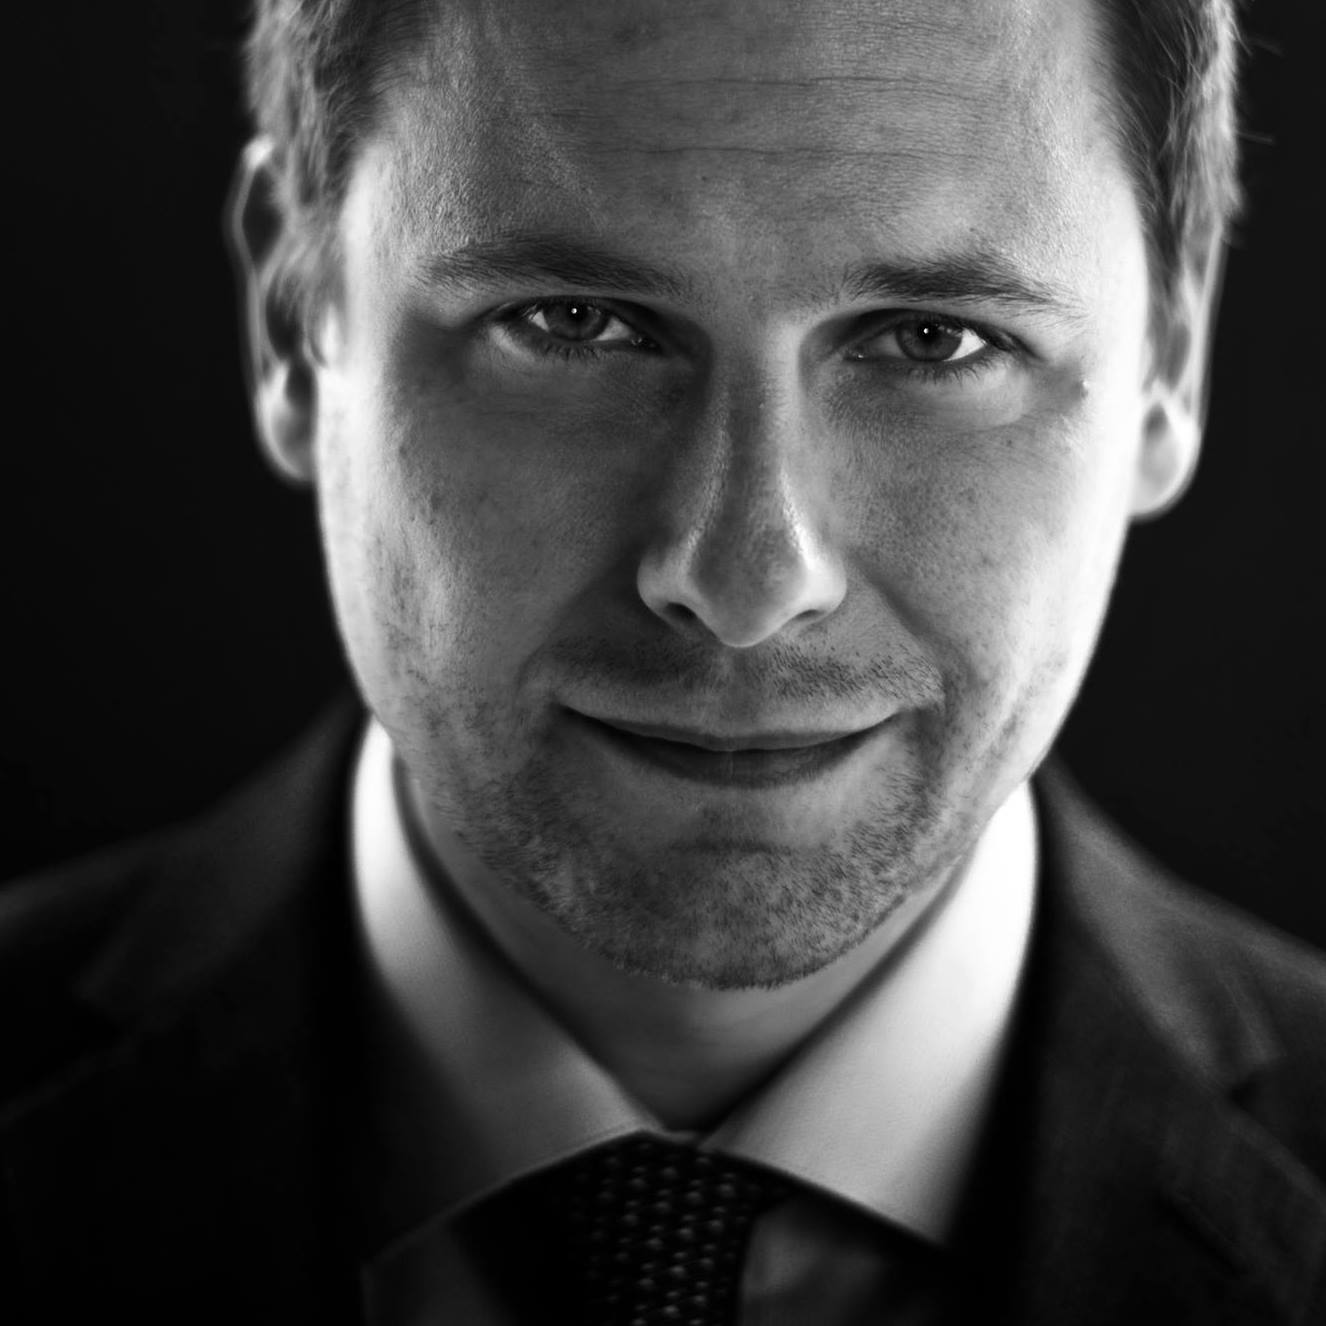
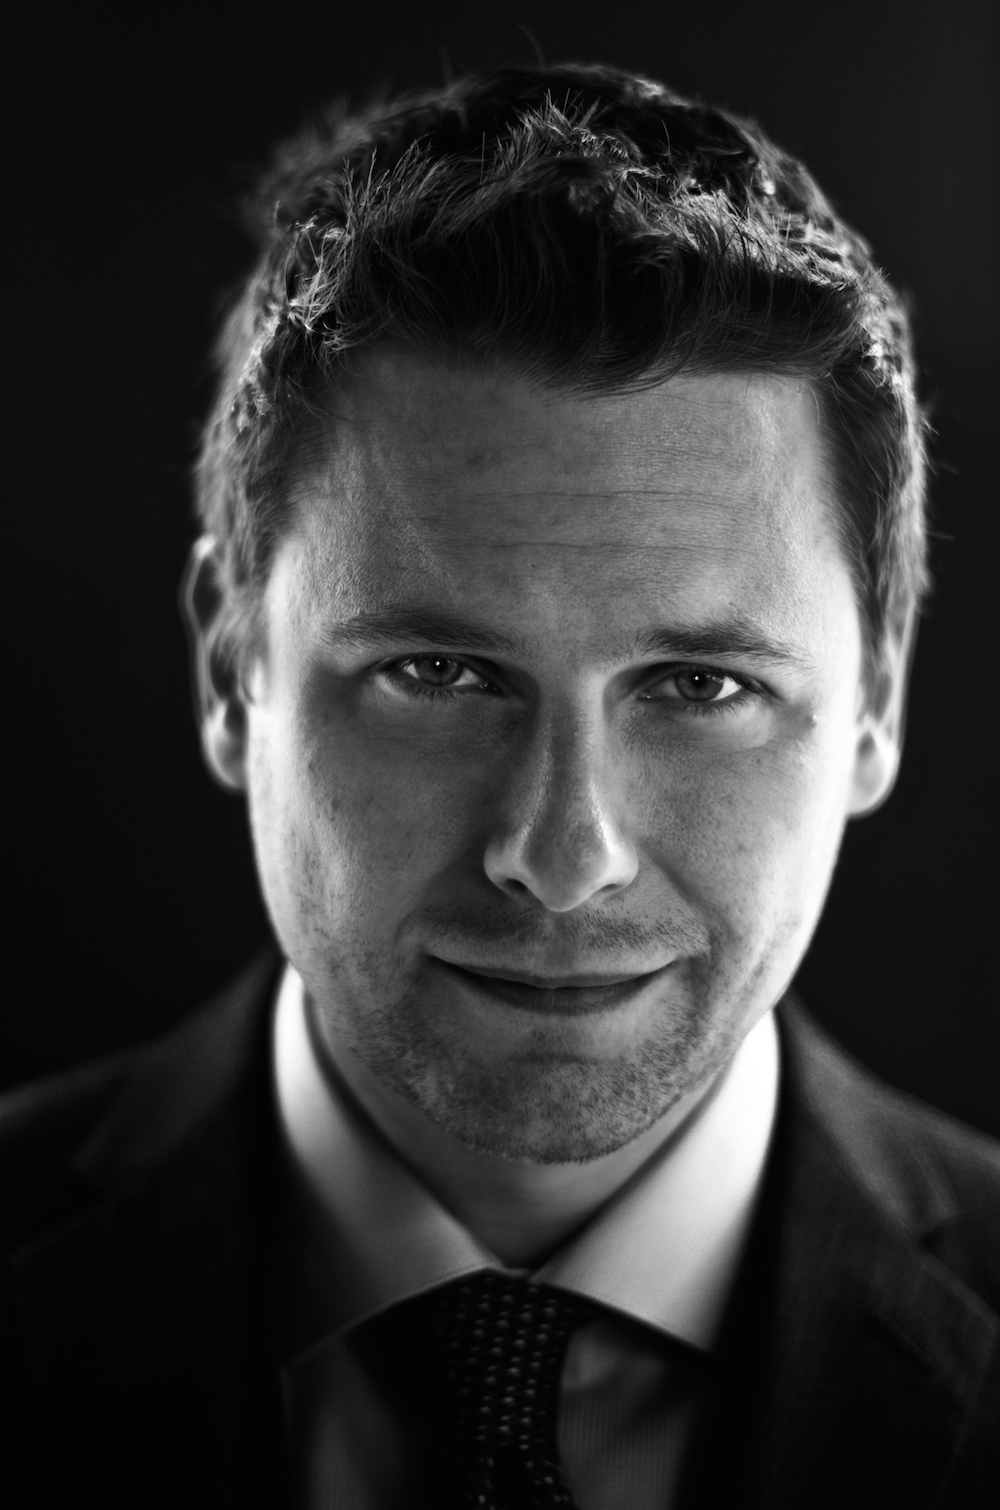
added page for Johann

diff --git a/people/j_laconte/index.html b/people/j_laconte/index.html
@@ -2,16 +2,14 @@
 <html>
   <head>
     <meta charset="utf-8">
-    <title>How to Add Bibliography to a Post • Northern Robotics Laboratory</title>
-    <meta name="description" content="This is a small tutorial on how to use the plugin jekyll-shcolar on this website.
-
+    <title>J_laconte • Northern Robotics Laboratory</title>
+    <meta name="description" content="
 ">
-    <meta name="keywords" content="howto, jekyll, website, bibtex">
+    <meta name="keywords" content="">
     
     	<!-- Twitter Cards -->
-	<meta name="twitter:title" content="How to Add Bibliography to a Post">
-	<meta name="twitter:description" content="This is a small tutorial on how to use the plugin jekyll-shcolar on this website.
-
+	<meta name="twitter:title" content="J_laconte">
+	<meta name="twitter:description" content="
 ">
 	
 	
@@ -22,16 +20,15 @@
 	<!-- Open Graph -->
 	<meta property="og:locale" content="en">
 	<meta property="og:type" content="article">
-	<meta property="og:title" content="How to Add Bibliography to a Post">
-	<meta property="og:description" content="This is a small tutorial on how to use the plugin jekyll-shcolar on this website.
-
+	<meta property="og:title" content="J_laconte">
+	<meta property="og:description" content="
 ">
 	
-	<meta property="og:url" content="https://norlab.ulaval.ca/research/how-to-add-bibliography/">
+	<meta property="og:url" content="https://norlab.ulaval.ca/people/j_laconte/">
 	<meta property="og:site_name" content="Northern Robotics Laboratory">
 
 
-    <link rel="canonical" href="https://norlab.ulaval.ca/research/how-to-add-bibliography/">
+    <link rel="canonical" href="https://norlab.ulaval.ca/people/j_laconte/">
 
     <link href="https://norlab.ulaval.ca/atom.xml" type="application/atom+xml" rel="alternate" title="Northern Robotics Laboratory Atom Feed">
     <link href="https://norlab.ulaval.ca/sitemap.xml" type="application/xml" rel="sitemap" title="Sitemap">
@@ -158,82 +155,127 @@
 
 
     <div id="page-wrapper">
-      <div id="main" role="main">
+      
+  
+
+<div id="main" role="main">
 	<article class="wrap" itemscope itemtype="http://schema.org/Article">
 		
 		
-  <nav class="breadcrumbs">
-    <span itemscope itemtype="http://data-vocabulary.org/Breadcrumb">
-      <a href="https://norlab.ulaval.ca" itemprop="url">
-        <span itemprop="title">Home</span>
-      </a> › 
-    <span itemscope itemtype="http://data-vocabulary.org/Breadcrumb">
-      <a href="https://norlab.ulaval.ca/research/" itemprop="url">
-        <span itemprop="title">Research</span>
-      </a>
-    </span>
-  </nav><!-- /.breadcrumbs -->
 
 		<div class="page-title">
-			<h1>How to Add Bibliography to a Post
-			<p></p>
-			</h1>
+			<h1>Johann Laconte</h1>
 		</div>
-		<div class="inner-wrap">
-			<div id="content" class="page-content" itemprop="articleBody">
-				<p>This is a small tutorial on how to use the plugin <code class="highlighter-rouge">jekyll-shcolar</code> on this website.</p>
 
-<p>Use <code class="highlighter-rouge">{% cite Pomerleau2010a %}</code> in a text to cite a work like this <a href="#Pomerleau2010a">(Pomerleau &amp; Colas, 2010)</a>.</p>
+			<div class="author-stat">
+				<img src="https://norlab.ulaval.ca/images/people/j_laconte.jpg" alt="Johann Laconte">
+				<p class="author-bio"></p>
+				
+					<!-- TODO: system message -->
+					<span style="font-style: italic;"> Started on 
+					<time datetime="2018-03-29">
+						March 29, 2018
+					</time>
+					</span>
+					<br>
+				
+				 <br><br>
+				
+					<b>Expertise:</b> Lidar modeling, ICP, Iterative Closest Point, registration, traversability <br><br>
+				
+				
+					<b>Follow me:</b><br>
+					
+					
+					
+					<span style="display:inline-block; width: 10px;"></span>
+					<img src="https://www.google.com/s2/favicons?domain=https://scholar.google.fr" alt="Google Scholar">
+					
+						<a href=https://scholar.google.fr/citations?user=cVFALvkAAAAJ target="_blank">Google Scholar</a>
+						<br>
+					
+					
+					
+					<span style="display:inline-block; width: 10px;"></span>
+					<img src="https://www.google.com/s2/favicons?domain=https://www.researchgate.net" alt="Research Gate">
+					
+						<a href=https://www.researchgate.net/profile/Johann_Laconte target="_blank">Research Gate</a>
+						<br>
+					
+					
+					
+					<span style="display:inline-block; width: 10px;"></span>
+					<img src="https://www.google.com/s2/favicons?domain=https://www.linkedin.com" alt="Linkedin">
+					
+						<a href=https://www.linkedin.com/in/jlaconte/ target="_blank">Linkedin</a>
+						<br>
+					
+					
+					
+					<span style="display:inline-block; width: 10px;"></span>
+					<img src="https://www.google.com/s2/favicons?domain=https://orcid.org" alt="ORCID">
+					
+						<a href=https://orcid.org/0000-0002-2274-9835 target="_blank">ORCID</a>
+						<br>
+					
+					
+					
+					<span style="display:inline-block; width: 10px;"></span>
+					<img src="https://www.google.com/s2/favicons?domain=https://www.mendeley.com" alt="Mendeley">
+					
+						<a href=https://www.mendeley.com/profiles/johann-laconte/ target="_blank">Mendeley</a>
+						<br>
+					
+				
 
-<p>Print only the cited bibliography:</p>
+			</div>
+			<div id="content" class="author-col" itemprop="articleBody">
+				
+				
+<h1 id="short-biography">Short Biography</h1>
 
-<div class="highlighter-rouge"><div class="highlight"><pre class="highlight"><code>{% bibliography --cited %}
-</code></pre></div></div>
-<p>Result:</p>
+<p>Johann Laconte is currently a Ph.D student in robotics at Institut Pascali, France. 
+He got an Engineering degree in computer sciences and modelisation from ISIMA (Institut Supérieur d’Informatique, de Modélisation et de leurs Applications) as well as a Master’s degree in Robotics from Université d’Auvergne, France, in 2018.
+He did an internship at Thales, during which he participated in the development of LIDAR SLAM algorithm.
+He also did an research internship at Norlab, working on the characterization of LIDAR’s bias.
+His current works are about traversability and risk assesments in dynamics environments.</p>
 
-<ol class="bibliography" reversed="reversed"><li><span id="Pomerleau2010a">Pomerleau, F., &amp; Colas, F. (2010). Evaluation of stereo reconstruction for 3D mapping. 4th International Conference on Cognitive Systems (CogSys).</span></li></ol>
+<h1 id="education">Education</h1>
 
-<p>Print a bibliography filtered by author name:</p>
+<ul>
+  <li>M.Sc. in Robotics and Artificial Perception - University of Auvergne (UCA), 2018</li>
+  <li>Engineering degree in computer Sciences and Modelisation - Institut Supérieur d’Informatique, de Modélisation et de leurs Applications (ISIMA), 2018</li>
+</ul>
 
-<div class="highlighter-rouge"><div class="highlight"><pre class="highlight"><code>{% bibliography -q @*[author ^= Paton] %}
-</code></pre></div></div>
-<p>Result:</p>
+<h1 id="publications">Publications</h1>
 
-<ol class="bibliography" reversed="reversed"><li><span id="Pomerleau2017b">Paton, M., Pomerleau, F., MacTavish, K., Ostafew, C. J., &amp; Barfoot, T. D. (2017). Expanding the Limits of Vision-based Localization for Long-term Route-following Autonomy. <i>Journal of Field Robotics</i>, <i>34</i>(1), 98–122.</span></li>
-<li><span id="Pomerleau2016a">Paton, M., Pomerleau, F., &amp; Barfoot, T. D. (2016). In the dead of winter: Challenging vision-based path following in extreme conditions. <i>Springer Tracts in Advanced Robotics</i>, <i>113</i>, 563–576.</span></li>
-<li><span id="Pomerleau2015b">Paton, M., Pomerleau, F., &amp; Barfoot, T. D. (2015). Eyes in the Back of Your Head: Robust Visual Teach &amp; Repeat Using Multiple Stereo Cameras. In <i>Proceedings of the 12th Conference on Computer and Robot Vision (CRV)</i> (pp. 46–53).</span></li></ol>
+<h2 class="bibliography">Conference Articles</h2>
+<ol class="bibliography" reversed="reversed"><li><span id="Labussiere2019">Labussière, M., Laconte, J., &amp; Pomerleau, F. (2019). Geometry Preserving Sampling Method based on Spectral Decomposition for 3D Registration. In <i>preprint, submitted to ICRA 2019</i>.</span></li>
+<li><span id="Laconte2019">Laconte, J., Deschênes, S.-P., Labussière, M., &amp; Pomerleau, F. (2019). Lidar Measurement Bias Estimation via Return Waveform Modelling in a Context of 3D Mapping. In <i>preprint, submitted to ICRA 2019</i>.</span></li></ol>
+
 
 
 				<hr />
+				
 				<footer class="page-footer">
-					
-
-<div class="author-image">
-	<img src="https://norlab.ulaval.ca/images/people/f_pomerleau_avatar.jpg" alt="François Pomerleau">
-</div><!-- ./author-image -->
-<div class="author-content">
-	<h3 class="author-name" >Written by <a href="/people/f_pomerleau" itemprop="author">François Pomerleau</a></h3>
-	<p class="author-bio"></p>
-</div><!-- ./author-content -->
-
 					<div class="inline-btn">
-	<a class="btn-social twitter" href="https://twitter.com/intent/tweet?text=How%20to%20Add%20Bibliography%20to%20a%20Post&amp;url=https://norlab.ulaval.ca/research/how-to-add-bibliography/&amp;via=" target="_blank"><i class="fa fa-twitter" aria-hidden="true"></i> Share on Twitter</a>
-	<a class="btn-social facebook" href="https://www.facebook.com/sharer/sharer.php?u=https://norlab.ulaval.ca/research/how-to-add-bibliography/" target="_blank"><i class="fa fa-facebook" aria-hidden="true"></i> Share on Facebook</a>
-	<a class="btn-social google-plus"  href="https://plus.google.com/share?url=https://norlab.ulaval.ca/research/how-to-add-bibliography/" target="_blank"><i class="fa fa-google-plus" aria-hidden="true"></i> Share on Google+</a>
+	<a class="btn-social twitter" href="https://twitter.com/intent/tweet?text=J_laconte&amp;url=https://norlab.ulaval.ca/people/j_laconte/&amp;via=" target="_blank"><i class="fa fa-twitter" aria-hidden="true"></i> Share on Twitter</a>
+	<a class="btn-social facebook" href="https://www.facebook.com/sharer/sharer.php?u=https://norlab.ulaval.ca/people/j_laconte/" target="_blank"><i class="fa fa-facebook" aria-hidden="true"></i> Share on Facebook</a>
+	<a class="btn-social google-plus"  href="https://plus.google.com/share?url=https://norlab.ulaval.ca/people/j_laconte/" target="_blank"><i class="fa fa-google-plus" aria-hidden="true"></i> Share on Google+</a>
 </div><!-- /.share-this -->
 
 					<div class="page-meta">
-	<p>Updated <time datetime="2018-01-01T00:00:00Z" itemprop="datePublished">January 01, 2018</time></p>
+	<p>Updated <time datetime="2018-11-22T00:00:00Z" itemprop="datePublished">November 22, 2018</time></p>
 </div><!-- /.page-meta -->
 				</footer><!-- /.footer -->
 				<aside>
 					
 				</aside>
 			</div><!-- /.content -->
-		</div><!-- /.inner-wrap -->
-		
 	</article><!-- ./wrap -->
 </div><!-- /#main -->
+
+
 
       <footer role="contentinfo" id="site-footer">
 	<nav role="navigation" class="menu bottom-menu">

diff --git a/equipe/index.html b/equipe/index.html
@@ -179,7 +179,7 @@
 		<div class="grid">
     <div class="author-image">
       
-      <img src="https://norlab.ulaval.ca/images/people/f_pomerleau.jpg" alt="avatar" itemprop="image" />
+      <img src="https://norlab.ulaval.ca/images/people/f_pomerleau_avatar.jpg" alt="avatar" itemprop="image" />
       
     </div><!-- ./author-image -->
 
@@ -416,11 +416,15 @@
 
 <div class="tile">
 	
+		
+			<a href="https://norlab.ulaval.ca/people/j_laconte" title="Johann Laconte">
+		
+	
 
 		<div class="grid">
     <div class="author-image">
       
-      <img src="https://norlab.ulaval.ca/images/people/bio-photo.jpg" alt="avatar" itemprop="image" />
+      <img src="https://norlab.ulaval.ca/images/people/j_laconte_avatar.jpg" alt="avatar" itemprop="image" />
       
     </div><!-- ./author-image -->
 
@@ -448,6 +452,8 @@
 		
 		</div>
 	
+	
+  </a>
 	
 </div><!-- /.tile -->
 

diff --git a/people/index.html b/people/index.html
@@ -179,7 +179,7 @@
 		<div class="grid">
     <div class="author-image">
       
-      <img src="https://norlab.ulaval.ca/images/people/f_pomerleau.jpg" alt="avatar" itemprop="image" />
+      <img src="https://norlab.ulaval.ca/images/people/f_pomerleau_avatar.jpg" alt="avatar" itemprop="image" />
       
     </div><!-- ./author-image -->
 
@@ -416,11 +416,15 @@
 
 <div class="tile">
 	
+		
+			<a href="https://norlab.ulaval.ca/people/j_laconte" title="Johann Laconte">
+		
+	
 
 		<div class="grid">
     <div class="author-image">
       
-      <img src="https://norlab.ulaval.ca/images/people/bio-photo.jpg" alt="avatar" itemprop="image" />
+      <img src="https://norlab.ulaval.ca/images/people/j_laconte_avatar.jpg" alt="avatar" itemprop="image" />
       
     </div><!-- ./author-image -->
 
@@ -448,6 +452,8 @@
 		
 		</div>
 	
+	
+  </a>
 	
 </div><!-- /.tile -->
 

diff --git a/error/traduction-manquante/index.html b/error/traduction-manquante/index.html
@@ -189,7 +189,7 @@ Si l’information manquante est importante pour vous, n’hésitez pas à nous 
 					
 
 <div class="author-image">
-	<img src="https://norlab.ulaval.ca/images/people/f_pomerleau.jpg" alt="François Pomerleau">
+	<img src="https://norlab.ulaval.ca/images/people/f_pomerleau_avatar.jpg" alt="François Pomerleau">
 </div><!-- ./author-image -->
 <div class="author-content">
 	<h3 class="author-name" >Écrit par <a href="/people/f_pomerleau_fr" itemprop="author">François Pomerleau</a></h3>

diff --git a/news/version-francaise/index.html b/news/version-francaise/index.html
@@ -193,7 +193,7 @@ N’hésitez pas à mentionner tout article dont la traduction est manquante.</p
 					
 
 <div class="author-image">
-	<img src="https://norlab.ulaval.ca/images/people/f_pomerleau.jpg" alt="François Pomerleau">
+	<img src="https://norlab.ulaval.ca/images/people/f_pomerleau_avatar.jpg" alt="François Pomerleau">
 </div><!-- ./author-image -->
 <div class="author-content">
 	<h3 class="author-name" >Écrit par <a href="/people/f_pomerleau_fr" itemprop="author">François Pomerleau</a></h3>

diff --git a/research/limnobotics_fr/index.html b/research/limnobotics_fr/index.html
@@ -241,7 +241,7 @@ Il est utilisé ici pour mettre en valeur des compétences de recherche et pour 
 					
 
 <div class="author-image">
-	<img src="https://norlab.ulaval.ca/images/people/f_pomerleau.jpg" alt="François Pomerleau">
+	<img src="https://norlab.ulaval.ca/images/people/f_pomerleau_avatar.jpg" alt="François Pomerleau">
 </div><!-- ./author-image -->
 <div class="author-content">
 	<h3 class="author-name" >Écrit par <a href="/people/f_pomerleau_fr" itemprop="author">François Pomerleau</a></h3>

diff --git a/error/missing-translation/index.html b/error/missing-translation/index.html
@@ -190,7 +190,7 @@ If the missing information is important to you, don’t hesitate to report to us
 					
 
 <div class="author-image">
-	<img src="https://norlab.ulaval.ca/images/people/f_pomerleau.jpg" alt="François Pomerleau">
+	<img src="https://norlab.ulaval.ca/images/people/f_pomerleau_avatar.jpg" alt="François Pomerleau">
 </div><!-- ./author-image -->
 <div class="author-content">
 	<h3 class="author-name" >Written by <a href="/people/f_pomerleau" itemprop="author">François Pomerleau</a></h3>

diff --git a/news/new-sensor-robosense/index.html b/news/new-sensor-robosense/index.html
@@ -205,7 +205,7 @@ This is the first unit delivered in Quebec and we are happy to use it for our pr
 					
 
 <div class="author-image">
-	<img src="https://norlab.ulaval.ca/images/people/f_pomerleau.jpg" alt="François Pomerleau">
+	<img src="https://norlab.ulaval.ca/images/people/f_pomerleau_avatar.jpg" alt="François Pomerleau">
 </div><!-- ./author-image -->
 <div class="author-content">
 	<h3 class="author-name" >Written by <a href="/people/f_pomerleau" itemprop="author">François Pomerleau</a></h3>

diff --git a/publications/learning-bias/index.html b/publications/learning-bias/index.html
@@ -245,7 +245,7 @@ We achieved around 10 % reduction in errors on all datasets from an already accu
 					
 
 <div class="author-image">
-	<img src="https://norlab.ulaval.ca/images/people/f_pomerleau.jpg" alt="François Pomerleau">
+	<img src="https://norlab.ulaval.ca/images/people/f_pomerleau_avatar.jpg" alt="François Pomerleau">
 </div><!-- ./author-image -->
 <div class="author-content">
 	<h3 class="author-name" >Written by <a href="/people/f_pomerleau" itemprop="author">François Pomerleau</a></h3>

diff --git a/publications/review-icp/index.html b/publications/review-icp/index.html
@@ -261,7 +261,7 @@ Ultimately, the objective of this review is to provide guidelines for the choice
 					
 
 <div class="author-image">
-	<img src="https://norlab.ulaval.ca/images/people/f_pomerleau.jpg" alt="François Pomerleau">
+	<img src="https://norlab.ulaval.ca/images/people/f_pomerleau_avatar.jpg" alt="François Pomerleau">
 </div><!-- ./author-image -->
 <div class="author-content">
 	<h3 class="author-name" >Written by <a href="/people/f_pomerleau" itemprop="author">François Pomerleau</a></h3>

diff --git a/research/how-to-comment-lauch-file/index.html b/research/how-to-comment-lauch-file/index.html
@@ -271,7 +271,7 @@ So much, that even the syntax highlight used for this web site will not render i
 					
 
 <div class="author-image">
-	<img src="https://norlab.ulaval.ca/images/people/f_pomerleau.jpg" alt="François Pomerleau">
+	<img src="https://norlab.ulaval.ca/images/people/f_pomerleau_avatar.jpg" alt="François Pomerleau">
 </div><!-- ./author-image -->
 <div class="author-content">
 	<h3 class="author-name" >Written by <a href="/people/f_pomerleau" itemprop="author">François Pomerleau</a></h3>

diff --git a/research/limnobotics/index.html b/research/limnobotics/index.html
@@ -240,7 +240,7 @@ It is used here to showcase reseach competences and to inspire future projects.<
 					
 
 <div class="author-image">
-	<img src="https://norlab.ulaval.ca/images/people/f_pomerleau.jpg" alt="François Pomerleau">
+	<img src="https://norlab.ulaval.ca/images/people/f_pomerleau_avatar.jpg" alt="François Pomerleau">
 </div><!-- ./author-image -->
 <div class="author-content">
 	<h3 class="author-name" >Written by <a href="/people/f_pomerleau" itemprop="author">François Pomerleau</a></h3>
